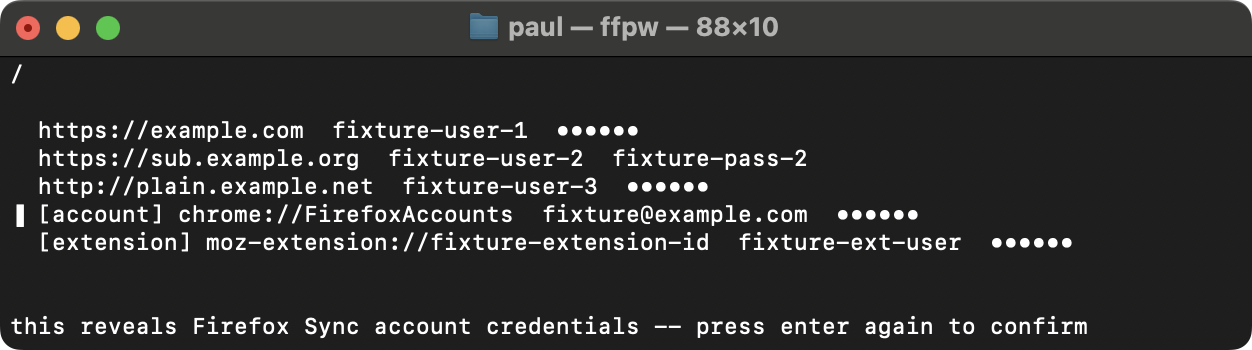
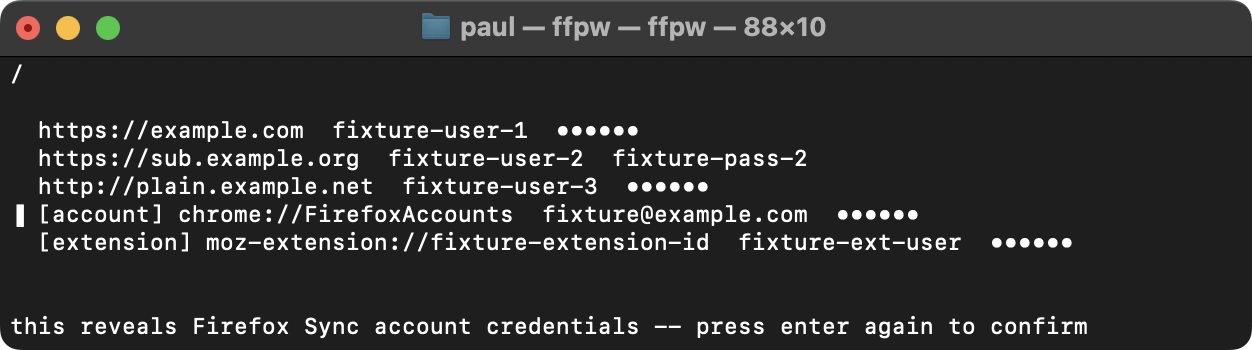
docs: add scripts/screenshots.sh to regenerate the README images
A UI change left the two PNGs stale with nothing to rebuild them. The
script builds both front ends, runs each against a sandbox HOME whose
profiles.ini points at core/testdata/sync-shaped, drives the TUI to the
frame the README shows, and captures each window.

The sandbox is what keeps a real credential out of a committed PNG. Both
front ends resolve the profile directory from $HOME, so the fixture is
reachable through open --env and a HOME= prefix.

Every capture targets a CoreGraphics window id. screencapture -R takes
whatever occupies a screen rectangle: while writing this, two -R captures
picked up unrelated windows because the target had moved. There is no CLI
for CGWindowListCopyWindowInfo and JXA's ObjC bridge does not resolve its
signature, so the script compiles a Swift one-shot into its work dir.

The app half quits a running FirefoxPasswordView first. A second instance
draws an empty entry list, because AppModel fills matchedIndices after the
first updateNSView and EntryListView reads nothing observable, so no
second update arrives to call reloadData.

The TUI half sends "q" before closing the window. Closing it first makes
Terminal ask whether to terminate ffpw, and that dialog blocks the script.

Changed region(s): [[0.3115, 0.0286, 0.6853, 0.1143]]

diff --git a/README.md b/README.md
@@ -14,6 +14,10 @@ The released binaries are Apple Silicon macOS.
 
 ![The macOS app listing the same five logins, with icons marking the Firefox Accounts row and the extension row](docs/images/macos-app.png)
 
+`scripts/screenshots.sh` regenerates both images after a UI change. It
+builds each front end, points it at a fixture profile, and captures the
+window.
+
 ## Scope
 
 This reads a profile. It never writes one. `key4.db` is opened
